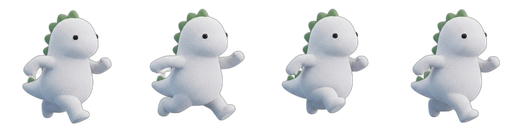
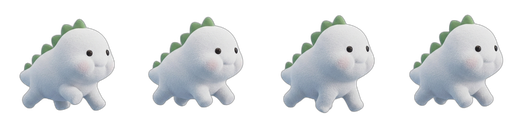
Feat: Apply exact quadrupedal running sprite and drastically reduce roaming speed for high refresh rate monitors

diff --git a/frontend/components/layout/GlobalMascotSprite.tsx b/frontend/components/layout/GlobalMascotSprite.tsx
@@ -153,16 +153,16 @@ const GlobalMascotSprite = () => {
                 const dist = Math.sqrt(dx * dx + dy * dy);
 
                 // Steer towards target smoothly (slower when roaming for floating feel)
-                const targetVx = (dx / (dist || 1)) * (isChasing.current ? 6 : 1.5);
-                const targetVy = (dy / (dist || 1)) * (isChasing.current ? 6 : 1.5);
+                const targetVx = (dx / (dist || 1)) * (isChasing.current ? 6 : 0.5);
+                const targetVy = (dy / (dist || 1)) * (isChasing.current ? 6 : 0.5);
 
                 // Add erratic zigzag noise (much gentler noise for floating feel)
-                const noise = isChasing.current ? 0.5 : 0.3;
-                vel.current.vx += (targetVx - vel.current.vx) * 0.04 + (Math.random() - 0.5) * noise;
-                vel.current.vy += (targetVy - vel.current.vy) * 0.04 + (Math.random() - 0.5) * noise;
+                const noise = isChasing.current ? 0.5 : 0.15;
+                vel.current.vx += (targetVx - vel.current.vx) * 0.03 + (Math.random() - 0.5) * noise;
+                vel.current.vy += (targetVy - vel.current.vy) * 0.03 + (Math.random() - 0.5) * noise;
 
                 // Cap max velocity to avoid insane speeds (slower for gentle floating)
-                const maxSpeed = isChasing.current ? 8 : 2.0;
+                const maxSpeed = isChasing.current ? 8 : 0.8;
                 const speed = Math.sqrt(vel.current.vx * vel.current.vx + vel.current.vy * vel.current.vy);
                 if (speed > maxSpeed) {
                     vel.current.vx = (vel.current.vx / speed) * maxSpeed;
